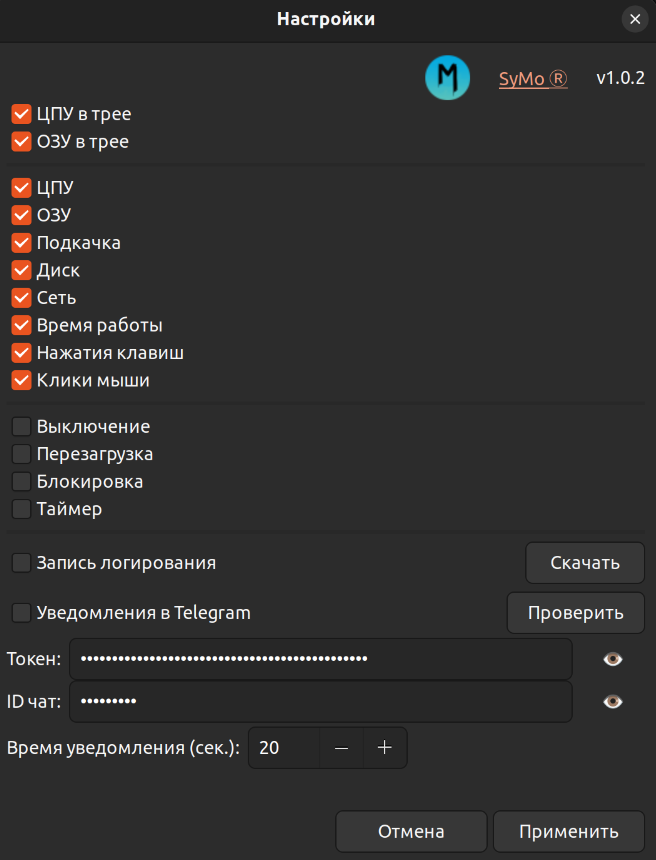
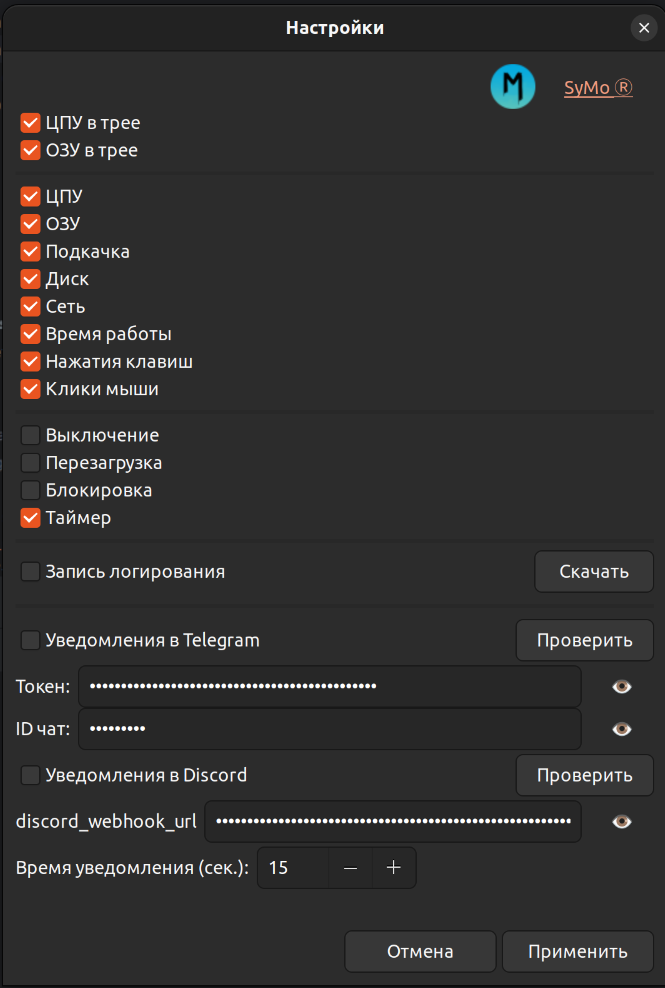
Готовый вариант с уведомлениями в дискорд

diff --git a/README.md b/README.md
@@ -17,7 +17,7 @@
 - Настраиваемый интерфейс:
   - Выбор отображаемых параметров
   - Настройка отображения в трее
-  - Отправка уведомлений в Telegram, по таймеру
+  - Отправка уведомлений в Telegram и Discord, по таймеру
 
 Управление питанием
 - Быстрые действия:
